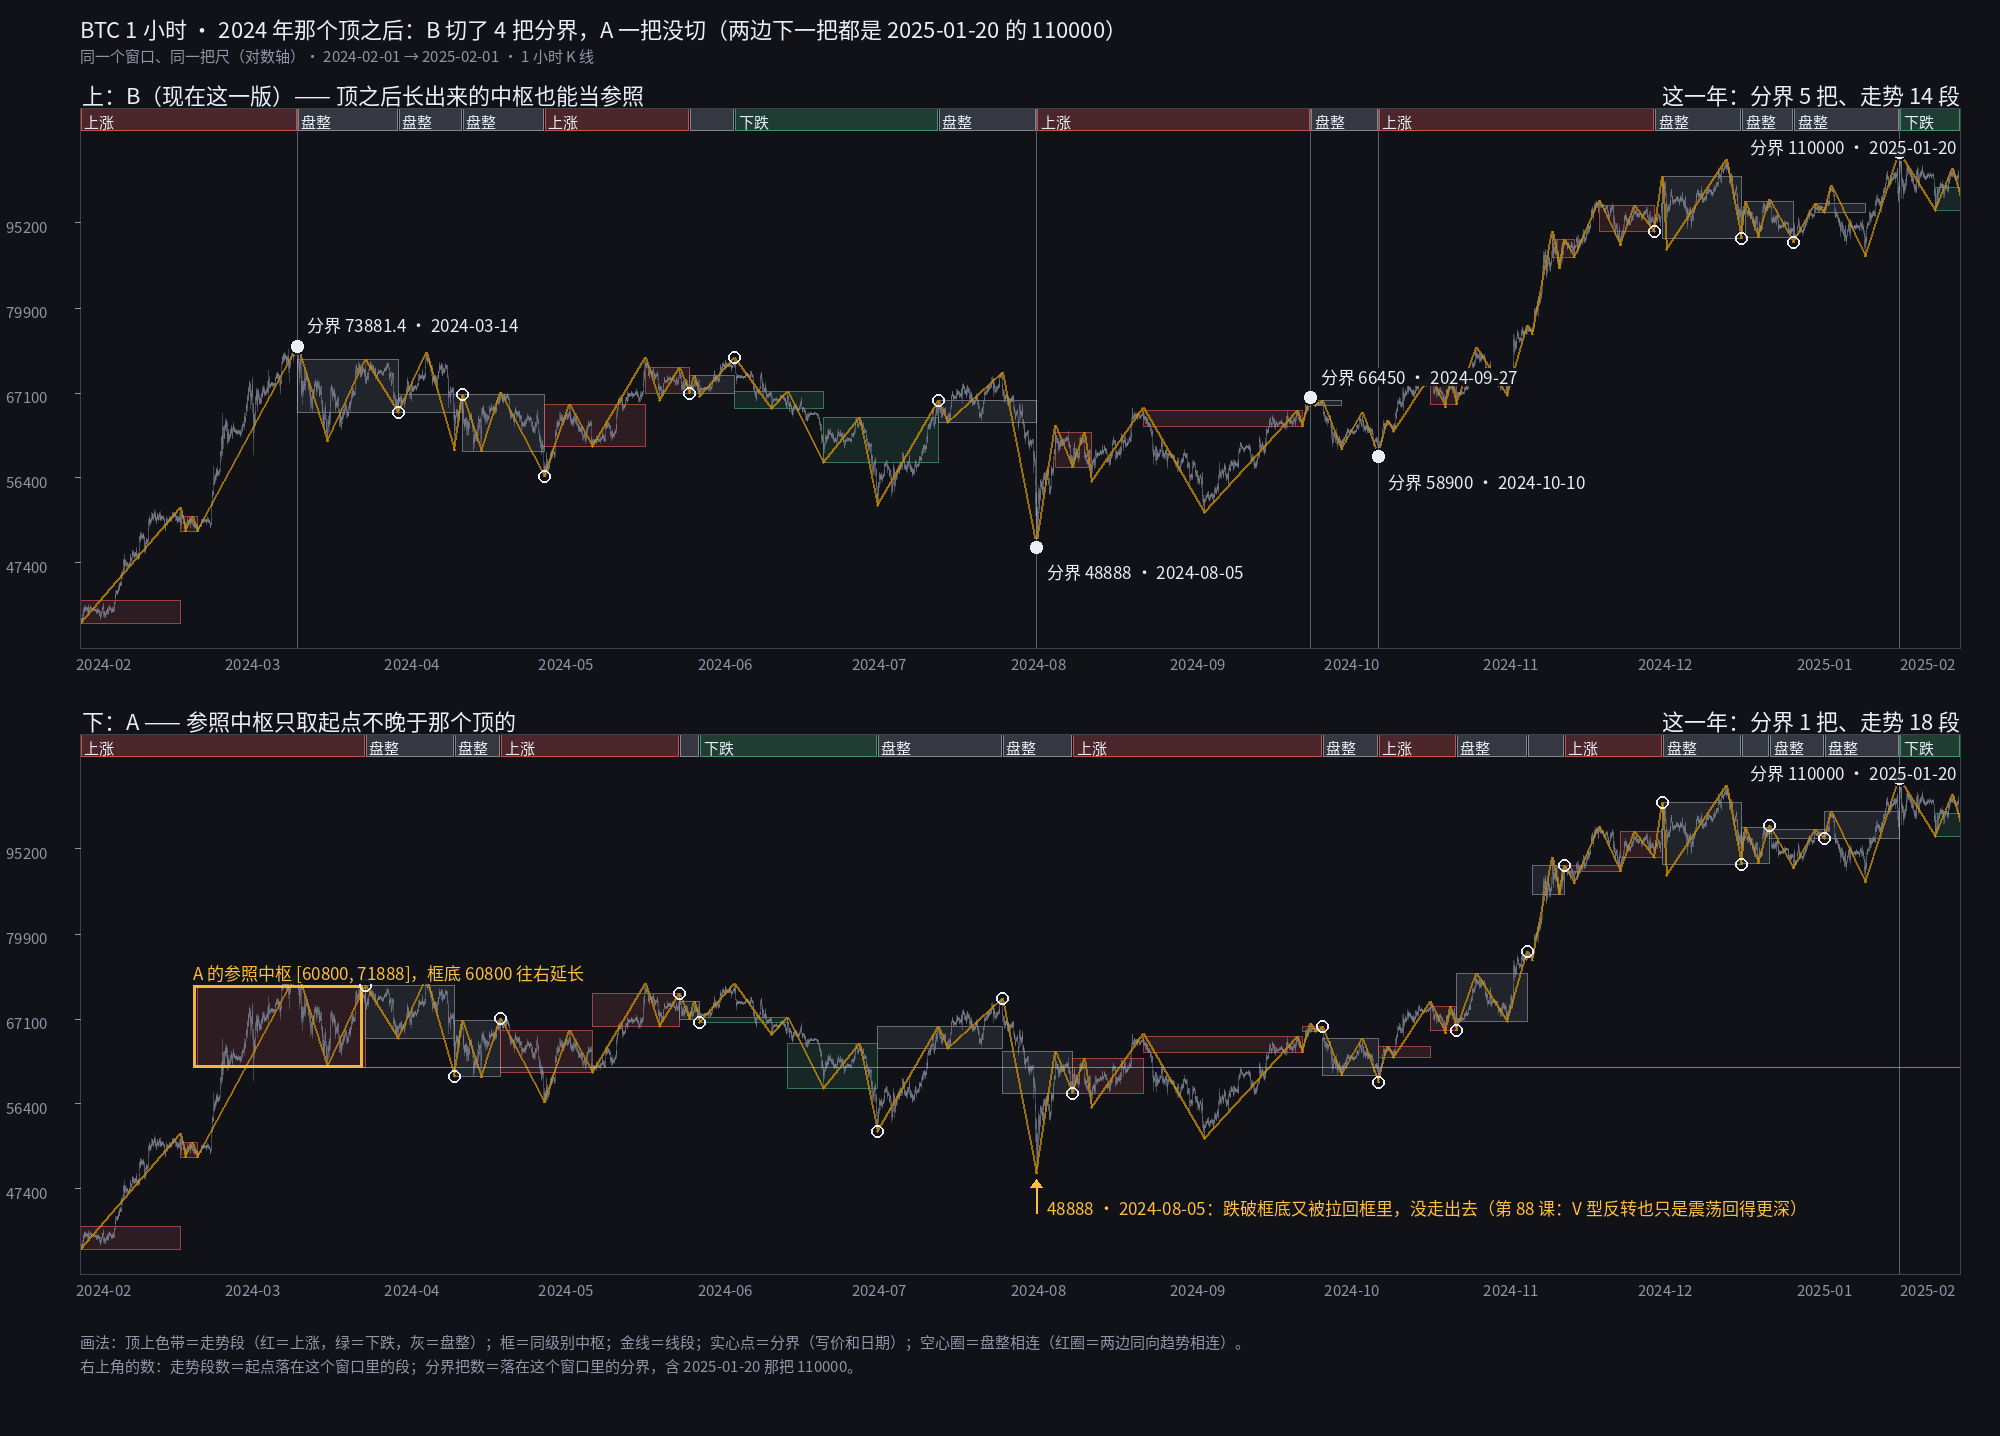
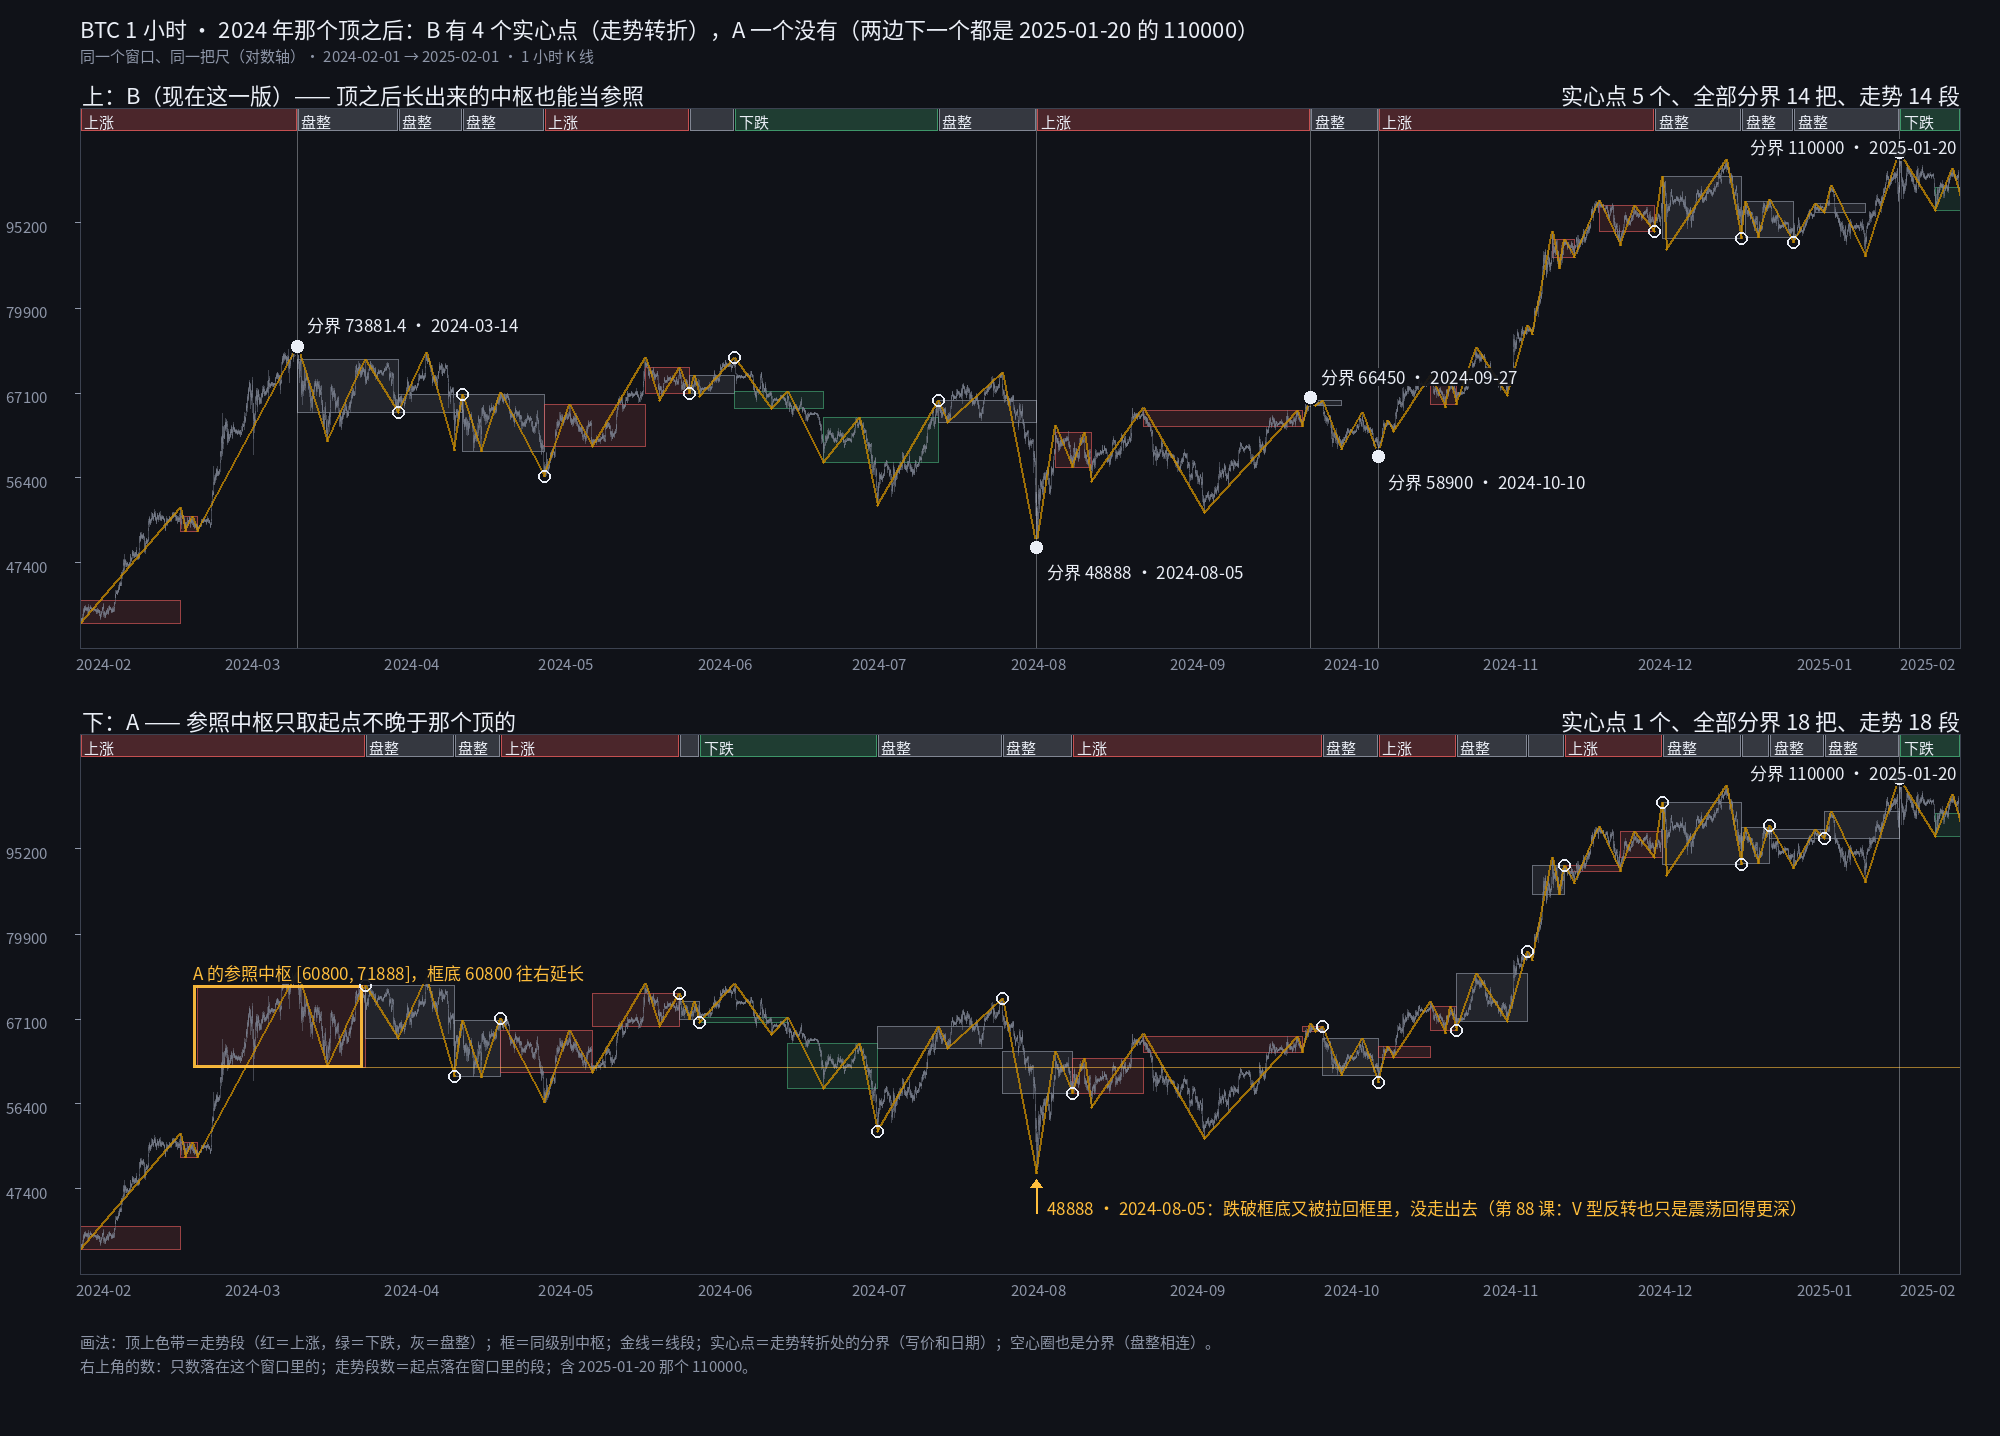
R6 B 对 A：「分界」跟合并页一个数法（全部的刀），右上角写实心点／全部分界／走势段；标题、画法说明同步（Nova 20:55）

diff --git a/notes/r1/r6_fig.py b/notes/r1/r6_fig.py
@@ -92,7 +92,8 @@ def panel(k, D, tag, box=None, mark=None):
     q.rectangle([ML, 34, W - MR, bot], outline=(60, 66, 80))
     q.text((ML + 2, 4), tag, fill=TX, font=F)
     nseg = sum(1 for s in segs if b0 <= s['i0'] <= b1); nd2 = sum(1 for bd in D['bounds'] if b0 <= bd['bar'] <= b1 and bd['rule'] != 'S5')
-    t = f'这一年：分界 {nd2} 把、走势 {nseg} 段'; tw = q.textbbox((0, 0), t, font=F)[2]
+    nall = sum(1 for bd in D['bounds'] if b0 <= bd['bar'] <= b1)
+    t = f'实心点 {nd2} 个、全部分界 {nall} 把、走势 {nseg} 段'; tw = q.textbbox((0, 0), t, font=F)[2]   # 「分界」跟合并页一个数法＝全部的刀（Nova 20:55）
     q.text((W - MR - tw, 4), t, fill=TX, font=F)
     months = [i for i in range(b0, b1 + 1) if i == b0 or utc(i).month != utc(i - 1).month]
     for i in months: q.text((min(W - MR - 60, X(i) - 4), bot + 4), f'{utc(i):%Y-%m}', fill=MU, font=Fs)
@@ -110,7 +111,7 @@ def parse_mark(s):
 panel(0, A, a.ta)
 panel(1, B, a.tb, box=parse_box(a.box_b), mark=parse_mark(a.mark_b))
 yb = 74 + 2 * (PH + 26) + 4
-d.text((ML, yb), '画法：顶上色带＝走势段（红＝上涨，绿＝下跌，灰＝盘整）；框＝同级别中枢；金线＝线段；实心点＝分界（写价和日期）；空心圈＝盘整相连（红圈＝两边同向趋势相连）。', fill=MU, font=Fs)
+d.text((ML, yb), '画法：顶上色带＝走势段（红＝上涨，绿＝下跌，灰＝盘整）；框＝同级别中枢；金线＝线段；实心点＝走势转折处的分界（写价和日期）；空心圈也是分界（盘整相连）。', fill=MU, font=Fs)
 if a.legend2: d.text((ML, yb + 24), a.legend2, fill=MU, font=Fs)
 if a.note: d.multiline_text((ML, yb + 52), a.note, fill=TX, font=Fs)
 im.save(out); print('saved', out, im.size)
